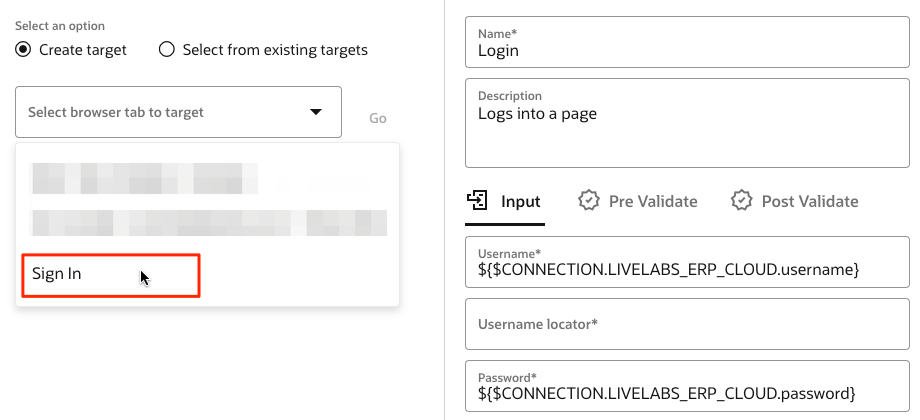
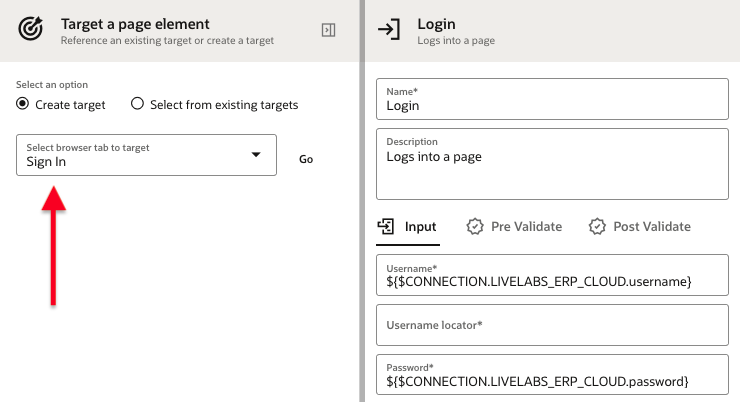
RPA updates

diff --git a/oic-gen3/experiential/get-started-rpa/create-robot/create-robot.md b/oic-gen3/experiential/get-started-rpa/create-robot/create-robot.md
@@ -139,7 +139,7 @@ Start the robot by adding the Login action.
 
     > **Note**: If the extension fails to load, then save all your work and restart the browser window. Next, navigate to the Robot and reopen the **Login** action.
 
-8. On the **Target a page element** panel, select the target browser window to the Oracle Fusion login page. The title will be `Sign In`.
+8. On the **Target a page element** panel, select the target browser window to the Oracle Fusion login page with title `Sign In`, and click **Go**.
 
     ![Robot input username locator select](images/robot-input_username-locator_select.png)
 
